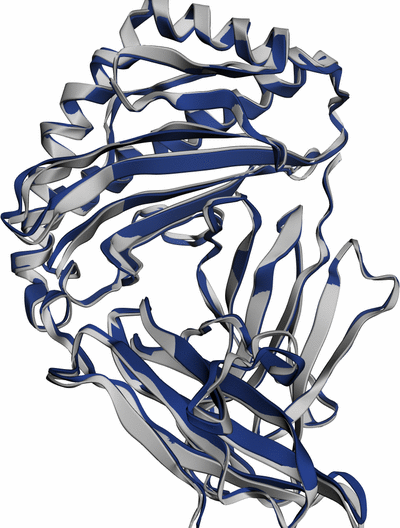
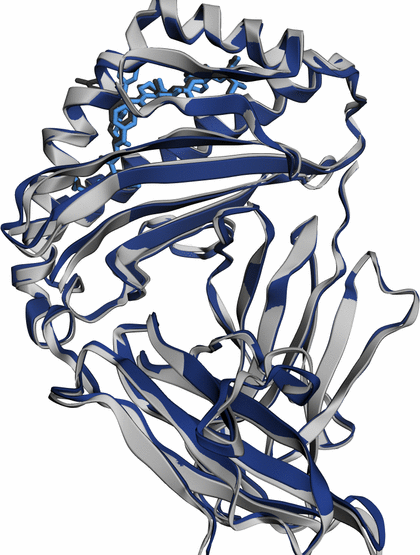
fix: draw the MHC peptide in the superposition figure
The superposition showed only two of the three chains. The peptide was in
both structures, prediction chain C and crystal chain F, but the figure
styled everything as cartoon and 3Dmol draws nothing for a nine-residue
extended chain, having no secondary structure to trace. So the one component
the example exists to show was invisible.

Both peptides are now sticks, pale blue predicted over dark crystal, thick
enough to survive the downscale to README width. They overlap in the groove,
which is what the 0.26 A in the table should look like.

The identity figure was never affected: it already styled chain C with
explicit sticks, which is why the peptide shows there and not here. The other
figures are fine for the same reason or because their chains are long enough
to draw: PSD's alpha subunits are 42 residues and render as cartoon, and the
MDM2 peptide was given sticks when it was made.

diff --git a/README.md b/README.md
@@ -800,10 +800,13 @@ formed by the heavy chain's two long helices and β2-microglobulin tucked undern
 support subunit.
 
 <p align="center">
-  <img src="assets/demo_mhc_vs_1duz.png" alt="Predicted complex superposed on 1DUZ" width="340">
+  <img src="assets/demo_mhc_vs_1duz.png" alt="Predicted complex superposed on 1DUZ" width="400">
 </p>
 
-Prediction in navy, the 1DUZ crystal structure in grey.
+Prediction in navy, the 1DUZ crystal structure in grey. Both peptides are drawn as sticks,
+pale blue for the prediction and dark for the crystal, because a nine-residue chain has no
+secondary structure for a cartoon to trace and 3Dmol draws nothing at all for it. The two sit
+on top of each other in the groove, which is the 0.26 Å in the table.
 
 | Superposition | Cα RMSD | mean pLDDT | `chain_ptm` |
 |---|---|---|---|
